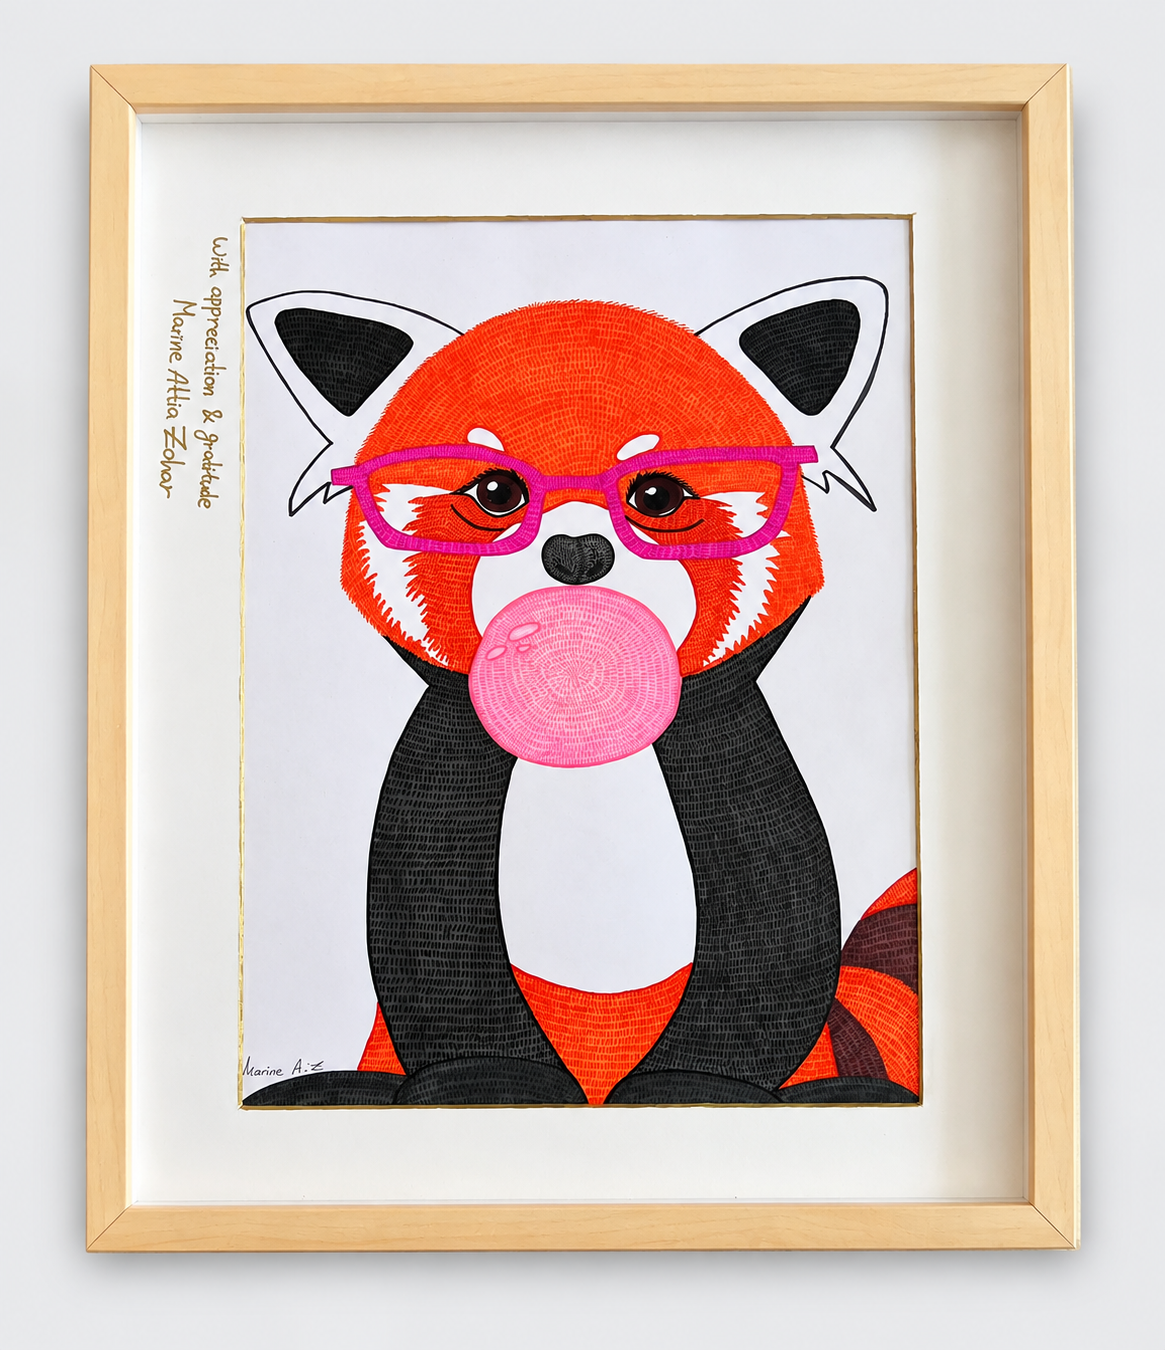
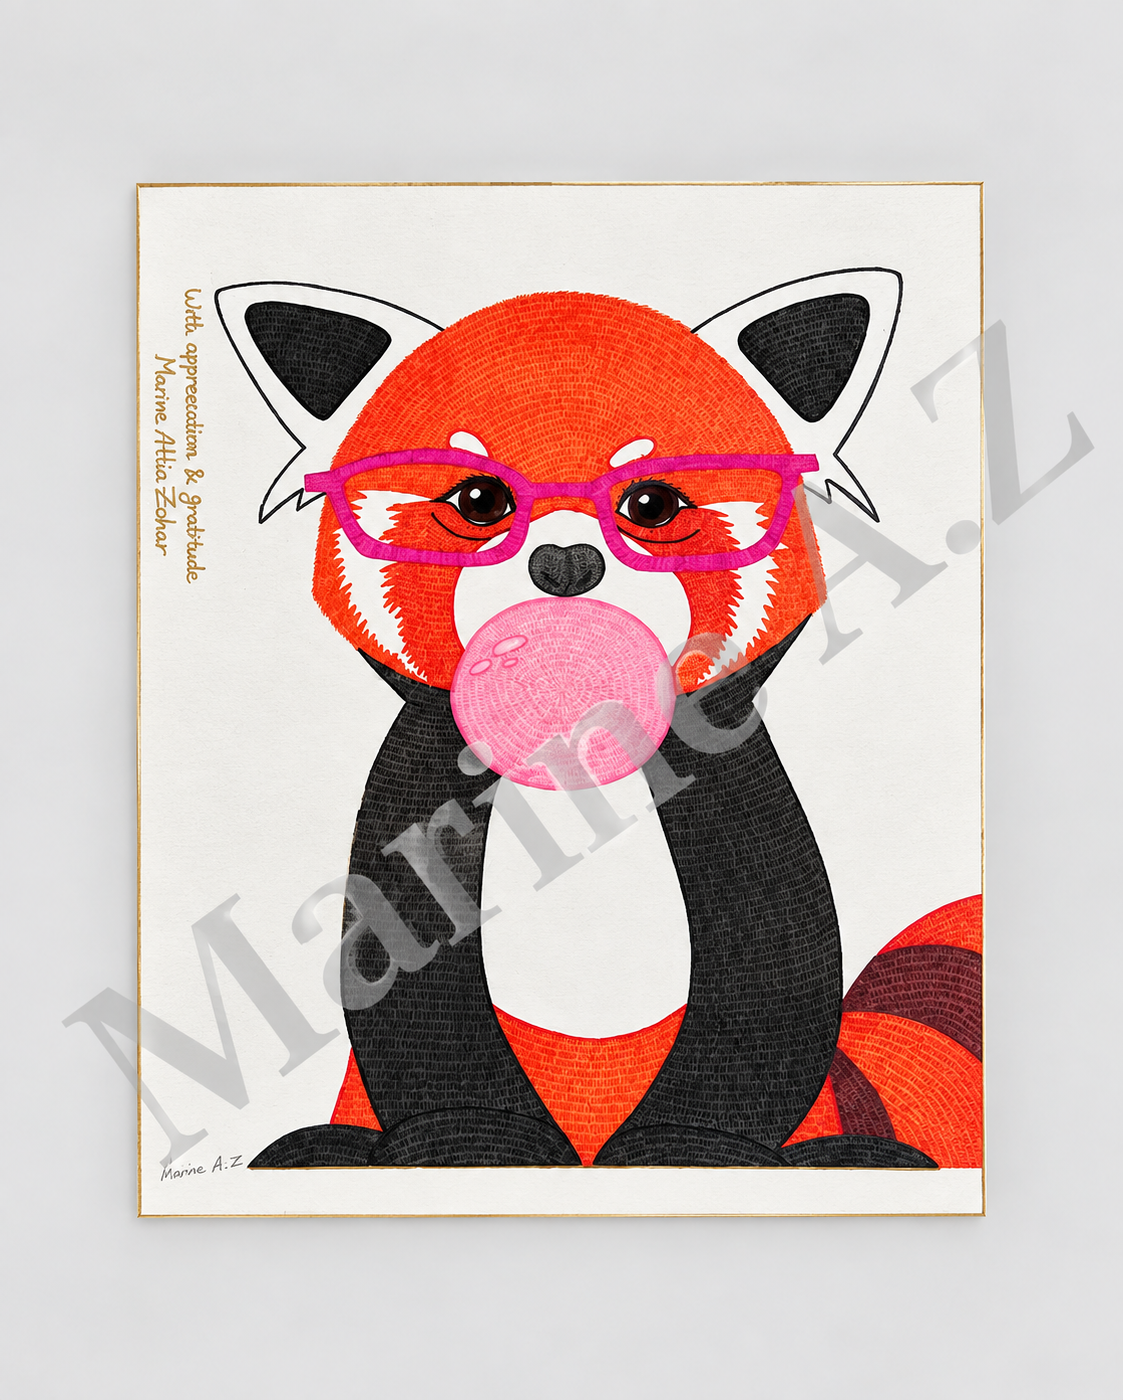
Replace all carousel artworks with the new watermarked set
Delete the previous carousel images (including the zebra) and swap in the five
new watermarked works (panda, plumeria, sculpture, cactus, whale shark);
update gallery dimensions accordingly.

Claude-Session: https://claude.ai/code/session_016HQBb5YtuheSWMz9f9ebzG

diff --git a/app/page.tsx b/app/page.tsx
@@ -20,12 +20,11 @@ const HERO_STORY =
 
 // יצירות בקרוסלה. אפשר להוסיף caption לכל יצירה (שם/טכניקה) והוא יופיע מתחתיה.
 const GALLERY: Artwork[] = [
-  { src: "/art-panda.png", alt: "פנדה אדומה עם משקפיים", w: 1165, h: 1350 },
-  { src: "/art-plumeria.png", alt: "פרחים לבנים מול הים", w: 1254, h: 1254 },
-  { src: "/art-sculpture.png", alt: "פסל מופשט בכחול וירוק", w: 1086, h: 1449 },
-  { src: "/art-zebra.png", alt: "זברה עם זר עלים", w: 1117, h: 1408 },
-  { src: "/art-cactus.png", alt: "קקטוס פורח במדבר", w: 1038, h: 1515 },
-  { src: "/art-whaleshark.png", alt: "כריש לווייתני בין דגים צבעוניים", w: 1236, h: 1272 },
+  { src: "/art-panda.png", alt: "פנדה אדומה עם משקפיים", w: 1123, h: 1400 },
+  { src: "/art-plumeria.png", alt: "פרחים לבנים מול הים", w: 1140, h: 1380 },
+  { src: "/art-sculpture.png", alt: "פסל מופשט בכחול וירוק", w: 1038, h: 1515 },
+  { src: "/art-cactus.png", alt: "קקטוס פורח במדבר", w: 1131, h: 1391 },
+  { src: "/art-whaleshark.png", alt: "כריש לווייתני בין דגים צבעוניים", w: 1197, h: 1314 },
 ];
 
 // סקשן 1 — ציטוט מימין, יצירה משמאל
